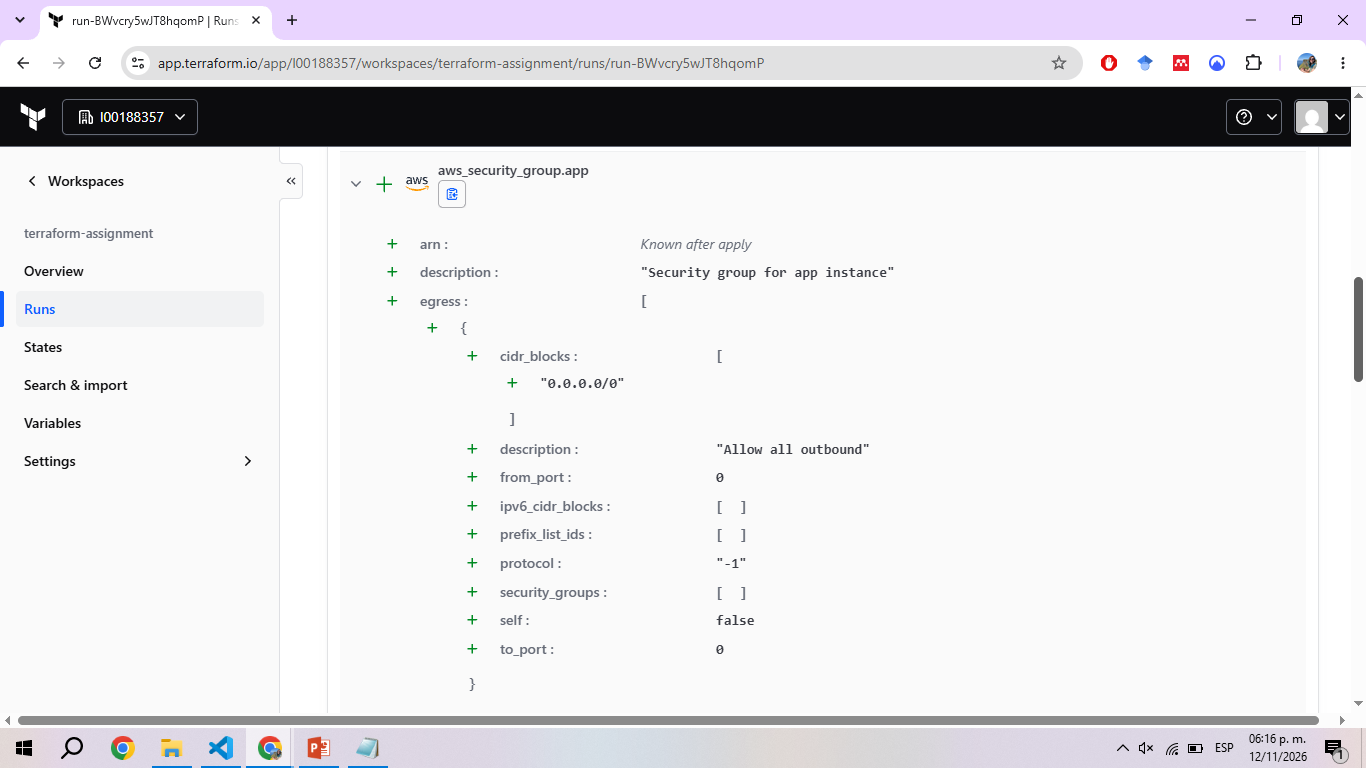
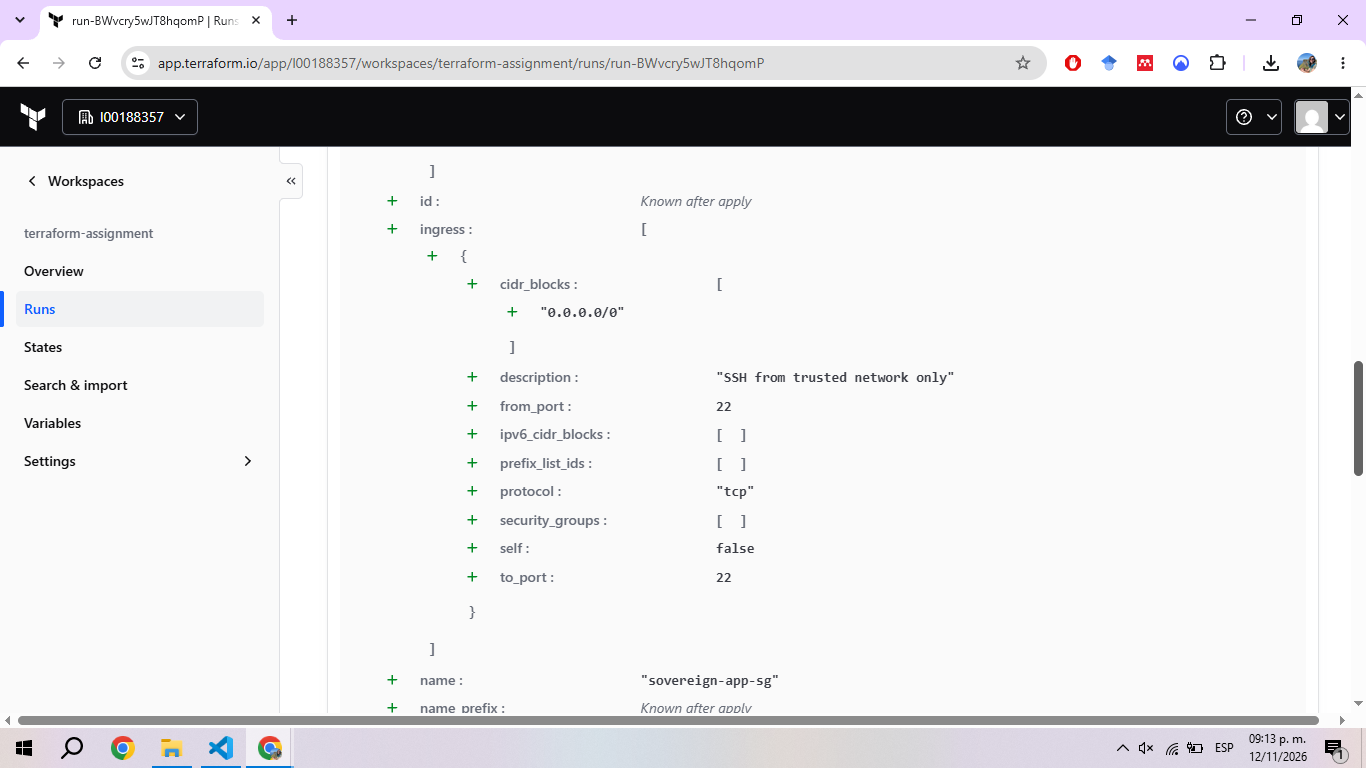
Add test results and update screenshot 16-hcp-noncompliant-run-4b-plan-ssh.png

diff --git a/documentation/evidence/test-results.md b/documentation/evidence/test-results.md
@@ -1,0 +1,156 @@
+# Test Results and Evidence
+
+Organisation: ATUL0012345 | HCP Terraform organisation: `l00188357`
+
+All screenshots are in this folder (`documentation/evidence/`). Each screenshot shows the date and time in the taskbar. Local tests were run on 9-11 November 2026 and the HCP Terraform runs on 12 November 2026.
+
+## 1. Environment
+
+| Item | Value |
+|---|---|
+| Terraform (local) | `terraform 1.17.2.` |
+| Terraform (HCP Terraform) | 1.17.2 |
+| AWS provider | `hashicorp/aws` pinned to `= 5.82.2` |
+| Sentinel CLI (local) | v0.41.0 |
+| Sentinel runtime (HCP Terraform, Platform environment) | 0.40.x |
+| Approved region | `eu-west-1` (Ireland) |
+| Credentials | Mock credentials in `providers.tf`. `terraform apply` was never run |
+
+## 2. Terraform plans (local)
+
+| Plan | Command | Result | Files | Screenshots |
+|---|---|---|---|---|
+| Compliant | `terraform plan -out=tfplan` | `Plan: 6 to add, 0 to change, 0 to destroy` | `terraform/tfplan`, `tfplan.txt`, `tfplan.json` | `01-compliant-plan-start.png`, `02-compliant-plan-summary.png`, `03-compliant-imdsv2-encryption.png` |
+| Non-compliant | `terraform plan -no-color -out=tfplan-noncompliant -var="instance_type=m5.large" -var="allowed_ssh_cidr=0.0.0.0/0" -var="aws_region=us-east-1"` | `Plan: 6 to add, 0 to change, 0 to destroy` | `terraform/tfplan-noncompliant`, `.txt`, `.json` | `12-noncompliant-plan-1.png`, `-2.png`, `-3.png` |
+
+What each screenshot shows:
+
+- `01`: plan command and the data volume (`encrypted = true`, `DataClass = "sensitive"`).
+- `02`: plan summary, `Saved the plan to: tfplan`, and the three `tfplan*` files.
+- `03`: `tfplan.txt` with `http_tokens = "required"` and `encrypted = true` under `aws_instance.app`.
+- `12-1`: the non-compliant command with the three `-var` values, and `availability_zone = "us-east-1a"`.
+- `12-2`: `Plan: 6 to add...` and `Saved the plan to: tfplan-noncompliant`.
+- `12-3`: `terraform show` output files and a `Select-String` search of `tfplan-noncompliant.txt`: `m5.large` (line 53), `us-east-1a` (lines 11 and 178), `0.0.0.0/0` (lines 133 and 149).
+
+Notes:
+
+- Screenshot `02` was taken when `tfplan.txt` and `tfplan.json` were still in UTF-16 with colour codes (25584 and 31612 bytes). They were regenerated in UTF-8 without colours (10383 and 15808 bytes), and those are the versions in the repository.
+- `terraform plan` does not block anything by itself. Blocking is done by Sentinel (sections 3 and 4).
+
+## 3. Sentinel unit tests (local, `sentinel test`)
+
+Each test supplies a mock plan and states the expected value of `main`. A `PASS` on a `fail-*` case means the policy correctly **blocked** the plan. Tests and mocks are in `sentinel/test/<policy>/` because `sentinel test` looks for `test/<policy>/` next to the `.sentinel` files.
+
+| Policy | Case | Scenario | Expected `main` | Screenshot |
+|---|---|---|---|---|
+| `instance_type` | `pass` | `t3.micro` | true | `04` |
+| `instance_type` | `fail` | `m5.large` | false | `04` |
+| `encryption` | `fail-ebs` | Data volume unencrypted | false | `05-2` |
+| `encryption` | `fail-root` | Root disk unencrypted | false | `05-2` |
+| `encryption` | `pass` | Root and data volumes encrypted | true | `05-3` |
+| `metadata` | `fail-missing` | `metadata_options` not declared | false | `06-1` |
+| `metadata` | `fail-optional` | `http_tokens = "optional"` | false | `06-1`, `06-2` |
+| `metadata` | `pass` | `http_tokens = "required"` | true | `06-2` |
+| `network` | `fail-all-protocols` | Protocol `-1` from `0.0.0.0/0` | false | `07-1` |
+| `network` | `fail-range-open` | Ports 0-65535 from `0.0.0.0/0` | false | `07-1` |
+| `network` | `fail-ssh-open` | Port 22 from `0.0.0.0/0` | false | `07-1`, `07-2` |
+| `network` | `pass` | SSH from `10.0.0.0/16` | true | `07-2` |
+| `sovereignty` | `fail-alias` | Second aws provider (alias) in `us-east-1` | false | `08-1` |
+| `sovereignty` | `fail-literal` | Provider region `us-east-1`, variable says `eu-west-1` | false | `08-1` |
+| `sovereignty` | `fail-unresolvable` | Region from `local.region` (cannot be proven) | false | `08-1`, `08-2` |
+| `sovereignty` | `fail-variable` | Variable `aws_region` = `us-east-1` | false | `08-2` |
+| `sovereignty` | `pass-literal` | Provider region written as `eu-west-1` | true | `08-2`, `08-3` |
+| `sovereignty` | `pass-variable` | Provider region from `var.aws_region` = `eu-west-1` | true | `08-3`, `08-4` |
+| `supply_chain_providers` | `fail-source` | Unknown publisher | false | `09-1` |
+| `supply_chain_providers` | `fail-version-empty` | No version | false | `09-1`, `09-2` |
+| `supply_chain_providers` | `fail-version-open` | `>= 5.0` | false | `09-2`, `09-3` |
+| `supply_chain_providers` | `fail-version-range` | `~> 5.0` | false | `09-3`, `09-4` |
+| `supply_chain_providers` | `pass` | `hashicorp/aws`, `= 5.82.2` | true | `09-4`, `09-5` |
+| `supply_chain_modules` | `fail-source` | Random GitHub repository | false | `10-1` |
+| `supply_chain_modules` | `fail-unpinned` | `~> 5.0` | false | `10-1` |
+| `supply_chain_modules` | `fail-version-missing` | Registry module without version | false | `10-2` |
+| `supply_chain_modules` | `pass-local` | Local `./` module | true | `10-2`, `10-3`, `10-4` |
+| `supply_chain_modules` | `pass` | Trusted registry, `= 5.8.1` | true | `10-3`, `10-4` |
+| `data_residency` | `fail-copy-us` | Backup copied to `us-east-1` | false | `11-1` |
+| `data_residency` | `fail-sensitive-unencrypted` | `DataClass = sensitive`, not encrypted | false | `11-1`, `11-2` |
+| `data_residency` | `pass-copy-in-region` | Snapshot copy within `eu-west-1` | true | `11-2` |
+| `data_residency` | `pass-not-sensitive` | No sensitive tag, rule does not apply | true | `11-2`, `11-3` |
+| `data_residency` | `pass` | Sensitive and encrypted | true | `11-3`, `11-4` |
+
+Screenshot file names: `04-sentinel-instance-type-test.png`, `05-sentinel-encryption-test-N.png`, `06-sentinel-metadata-test-N.png`, `07-sentinel-network-test-N.png`, `08-sentinel-sovereignty-test-N.png`, `09-sentinel-supply-chain-providers-test-N.png`, `10-sentinel-supply-chain-modules-test-N.png`, `11-sentinel-data-residency-test-N.png`. A trace is often split across two consecutive screenshots, so a case can appear in two of them.
+
+### Coverage limits visible in the traces
+
+- Short-circuit: `main` combines rules with `and`, and Sentinel stops at the first rule that fails. In the `fail-*` cases of `sovereignty`, only `provider_regions_approved` appears. `azs_approved` and `explicit_regions_approved` appear only as `true` in the `pass` cases, so no test makes them fail.
+- The same applies to `network`: `standalone_ingress_safe` appears only as `true` in `pass`. No test makes it fail.
+- In `supply_chain_providers` and `supply_chain_modules`, each `fail-*` case breaks one rule at a time. No test combines two failures.
+- `encryption` and `data_residency` have a case that fails each rule on its own.
+
+## 4. HCP Terraform runs (policy enforcement on real plans)
+
+Three consolidated policies in one policy set (`digital-sovereignty-baseline`), because the Free edition allows one policy set with up to five policies. Workspace `terraform-assignment`, Auto-apply off, source: GitHub, branch `main`, commit `6e5903f` (merge of PR #10). Both runs used the same commit, so the only difference between them is the three variables.
+
+### 4.1 Compliant run
+
+| Item | Value |
+|---|---|
+| Run | `run-gVUc3Qwv2RxGAC4y` (12/11/2026) |
+| Variables | `instance_type = t3.micro`, `allowed_ssh_cidr = 10.0.0.0/16`, `aws_region = eu-west-1` |
+| Plan | 6 to add, 0 to change, 0 to destroy |
+| `infrastructure_security` | Passed |
+| `digital_sovereignty` | Passed |
+| `supply_chain` | Passed |
+| Apply | Discarded |
+
+| Screenshot | Shows |
+|---|---|
+| `13-hcp-compliant-variables.png` (04:44) | The three compliant variables |
+| `14-hcp-compliant-run-1.png` (04:09) | `3 of 3 passed`, commit, `Plan finished: 6 to add` |
+| `14-hcp-compliant-run-2.png` (04:07) | Three policies **Passed** and `Apply pending` |
+
+The variables screenshot (04:44) was taken after the run (04:05-04:09). The values did not change in between, and the plan log of the run shows the values used.
+
+### 4.2 Non-compliant run
+
+| Item | Value |
+|---|---|
+| Run | `run-BWvcry5wJT8hqomP` (12/11/2026) |
+| Variables | `instance_type = m5.large`, `allowed_ssh_cidr = 0.0.0.0/0`, `aws_region = us-east-1` |
+| Plan | 6 to add, 0 to change, 0 to destroy |
+| `infrastructure_security` | **Failed** (hard-mandatory). Rule `instance_type_allowed` = false |
+| `digital_sovereignty` | **Advisory failed**. Rule `provider_regions_approved` = false |
+| `supply_chain` | Passed (all four rules true) |
+| Result | `Sentinel policies hard failed`, `Apply will not run` |
+
+| Screenshot | Shows |
+|---|---|
+| `15-hcp-noncompliant-variables.png` (04:47) | The three non-compliant variables, taken before the run |
+| `16-hcp-noncompliant-run-1-top.png` (04:53) | Run name, `Errored`, `1 of 3 passed`, commit |
+| `16-hcp-noncompliant-run-2-hard-failed.png` (04:50) | `1 hard failed, 1 advisory failed`, `infrastructure_security` Failed, `Apply will not run` |
+| `16-hcp-noncompliant-run-3-all.png` (04:54) | The three policies with their status |
+| `16-hcp-noncompliant-run-4a-plan-instance-type.png` (06:16) | `instance_type: "m5.large"` in the expanded `aws_instance.app` |
+| `16-hcp-noncompliant-run-4b-plan-ssh.png` (09:13) | `ingress` rule of `sovereign-app-sg`: port 22, `tcp`, `cidr_blocks: "0.0.0.0/0"`. Its description still says "SSH from trusted network only" |
+| `16-hcp-noncompliant-run-4c-plan-region.png` (06:15) | `aws_subnet.main` with `availability_zone: "us-east-1a"` |
+| `16-hcp-noncompliant-run-5-trace-infrastructure.png` (06:44) | `hard-mandatory`, `main` false, `instance_type_allowed` false |
+| `16-hcp-noncompliant-run-6-trace-sovereignty.png` (06:44) | `advisory`, `main` false, `provider_regions_approved` false |
+| `17-hcp-variables-restored.png` (06:50) | Variables restored to `t3.micro`, `10.0.0.0/16`, `eu-west-1` |
+| `run-BWvcry5wJT8hqomP-policy-check-log.txt` | Full policy check log of the run |
+
+Screenshots `4a` to `6` and `17` were taken later than the run, from the same run page (`4b` at 09:13 p. m.). The log file contains the same results as the traces.
+
+### 4.3 Violation to evidence
+
+| Violation | Variable | Where it appears in the plan | Policy that reacted | Evidence |
+|---|---|---|---|---|
+| Instance type not approved | `instance_type = m5.large` | `instance_type: "m5.large"` | `infrastructure_security` (blocked) | `16-...-4a`, `16-...-5`, log |
+| SSH open to the world | `allowed_ssh_cidr = 0.0.0.0/0` | `ingress` rule on port 22 | Not evaluated in this run (see section 5) | `16-...-4b`, `tfplan-noncompliant.txt`, `network` unit tests (`07`) |
+| Region outside Ireland | `aws_region = us-east-1` | `availability_zone: "us-east-1a"` | `digital_sovereignty` (advisory) | `16-...-4c`, `16-...-6`, log |
+
+## 5. Observations
+
+- **Short-circuit confirmed by the log.** `infrastructure_security` lists only `main` and `instance_type_allowed`, and `digital_sovereignty` lists only `main` and `provider_regions_approved`. The open SSH rule and the `us-east-1a` availability zones were in the same plan, but `sg_ingress_safe` and `azs_approved` were not evaluated, because an earlier rule had already failed. They are covered separately by the unit tests in section 3.
+- **Enforcement levels.** The Free edition did not allow more than one hard-mandatory policy, so only `infrastructure_security` blocks the run. `digital_sovereignty` and `supply_chain` are advisory. A run that violated only the sovereignty policy would continue to the apply stage. In production all three would be hard-mandatory.
+- **Real data confirmed the fail-closed design.** `tfplan.raw` and the `tfconfig/v2` fields had only been tested with hand-written mocks. In HCP Terraform the compliant run passed all three policies, and the non-compliant run detected `us-east-1` through the provider configuration.
+- **Runtime difference.** Local tests use Sentinel v0.41.0 and HCP Terraform uses 0.40.x.
+- **Policy sets.** VCS-backed policy sets are not available in the Free edition. Policies were pasted as individually managed policies, and the source files are in `sentinel/hcp/`. The consolidated files have no dedicated local tests. Their rule logic is the same as in the modular policies that were tested.
+- **Log header.** The log shows `<empty policy set name>` as the policy set name. This is how HCP Terraform labels individually managed policies.
